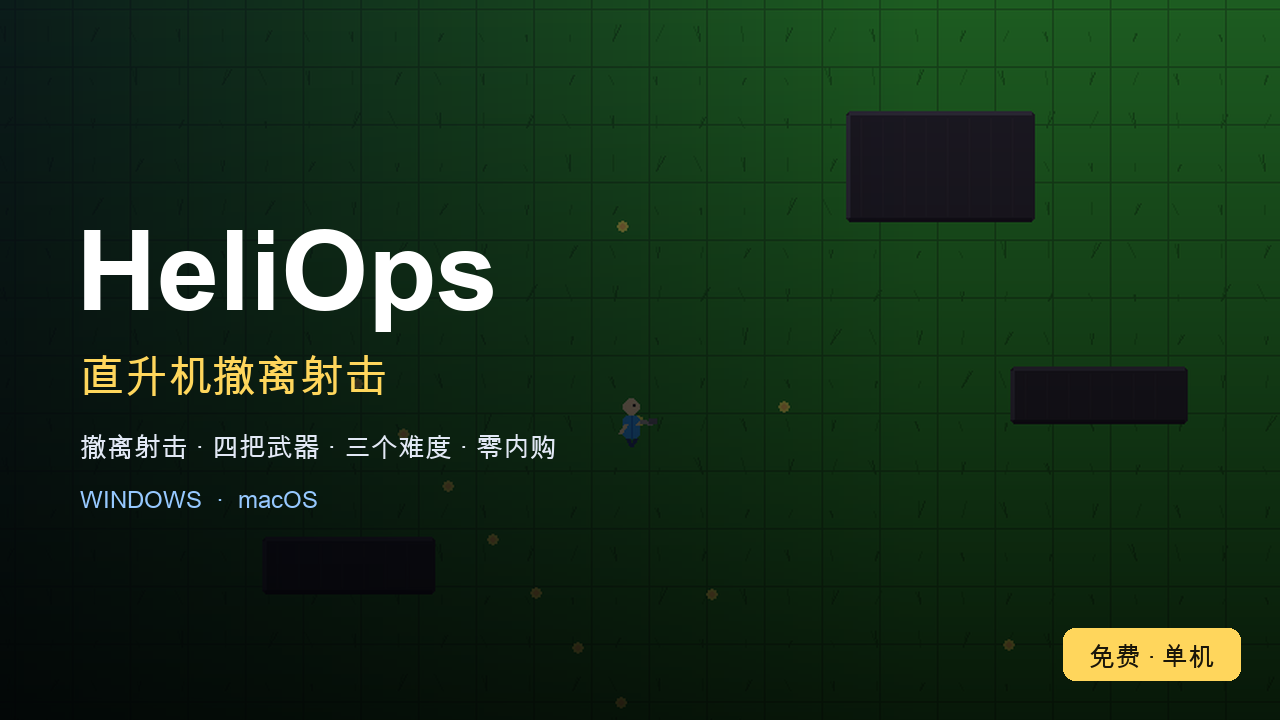
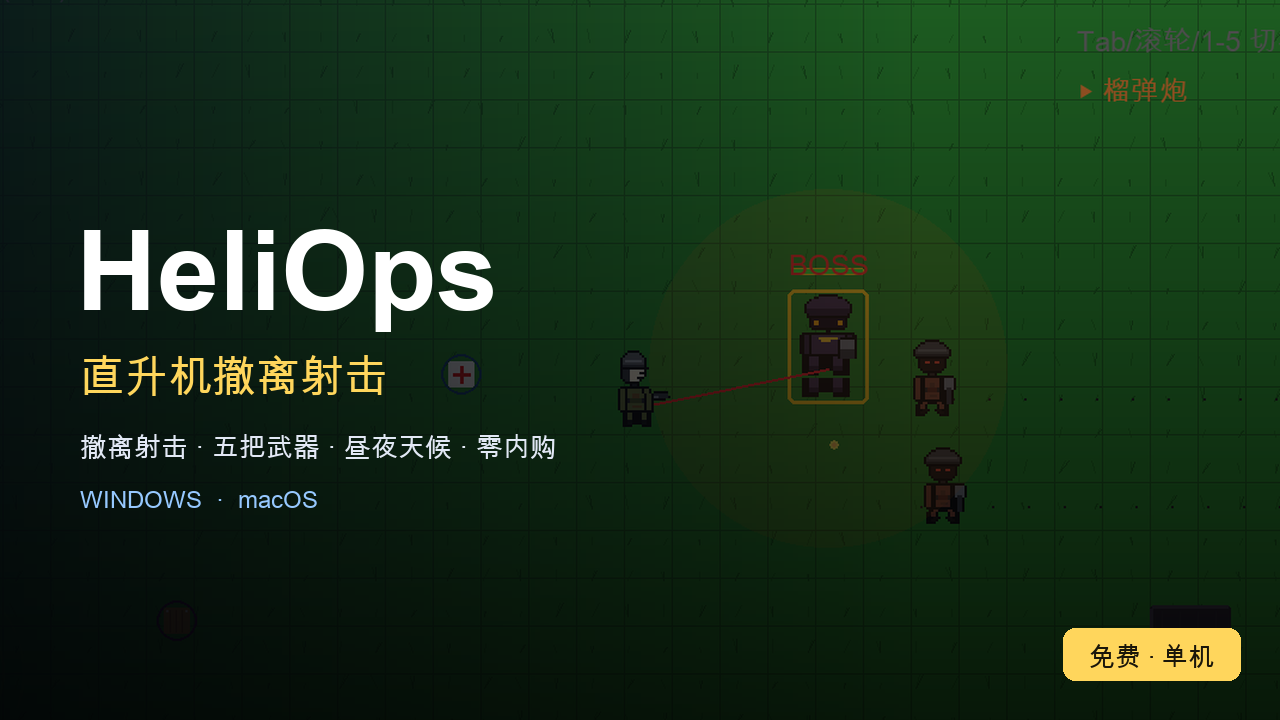
docs: add README with v1.3.3 screenshots

diff --git a/README.md b/README.md
@@ -1,0 +1,118 @@
+# HeliOps
+
+> 单机俯视角「搜打撤」撤离射击 —— 搜刮物资、躲开巡逻兵与 Boss、在夜里靠一支手电突围，走到黄色撤离点，等直升机降落把你接走。
+>
+> Windows / macOS · 免费 · 无内购 · 中文
+
+![夜间作战](screenshots/v1.3.3_夜晚手电锥形.png)
+
+---
+
+## 下载
+
+| 平台 | 版本 | 下载 |
+| --- | --- | --- |
+| Windows | 10 / 11 64 位 | [HeliOps_Windows_Chinese_v1.3.3.zip](https://github.com/sunnychen786/HeliOps/releases/download/v1.3.3/HeliOps_Windows_Chinese_v1.3.3.zip) |
+| macOS | 12+（Intel / Apple 芯片） | [HeliOps_Mac_Chinese_v1.3.3.zip](https://github.com/sunnychen786/HeliOps/releases/download/v1.3.3/HeliOps_Mac_Chinese_v1.3.3.zip) |
+
+解压即玩：Windows 双击 `HeliOps.exe`，macOS 双击 `HeliOps.app`（首次需要在「系统设置 → 隐私与安全性」里放行）。
+
+全部历史版本见 [Releases](https://github.com/sunnychen786/HeliOps/releases)。也收录在 [itch.io](https://sunnychen786.itch.io/heliops)。
+
+![Boss 追杀](screenshots/v1.3.3_Boss追杀.png)
+
+---
+
+## v1.3 带来了什么
+
+**生涯战绩** —— 主菜单按 `T`，累计击杀、撤离次数、撤离成功率、历史最高分一目了然，难度解锁状态也在同一屏。
+
+![生涯战绩](screenshots/v1.3.3_生涯战绩.png)
+
+**榴弹炮** —— 第 5 把武器，4000 分解锁。一发 5 点伤害，但弹匣只有 4 发，打空就得停下来换弹，换弹期间完全无法射击。
+
+![榴弹炮](screenshots/v1.3.3_白天战斗_榴弹炮.png)
+
+**夜间作战** —— 入夜之后战场伸手不见五指，只剩一支跟着你朝向走的 90° 手电光锥。灯下看得清，光外一片漆黑。
+
+![夜间作战](screenshots/v1.3.3_夜晚手电锥形.png)
+
+**撤离镜头** —— 撤离不再是一句提示文字，而是一段真的镜头：直升机从天上降下来，把你连同战利品一起带走。
+
+---
+
+## 玩法
+
+你是地面士兵，直升机只负责撤离接应，敌人和 Boss 都不是直升机。
+
+- 在战区搜索补给箱，捡到武器与护甲
+- 巡逻兵、猎手与 Boss 会主动开火，Boss 会一路追杀你
+- 走到黄色撤离点**停留 3 秒**，直升机降落接应
+- 只有活着带出去的战利品才换算成分数；被击倒这一趟就白跑了
+- 分数可以在补给站买更强的装备，越难难度奖励越高
+
+| 按键 | 作用 |
+| --- | --- |
+| `WASD` / 方向键 | 移动角色 |
+| `空格` | 射击（自动瞄准最近的敌人） |
+| `J` | 搜索物资（靠近后按住约 1.5 秒） |
+| `1`–`5` / `Tab` / 滚轮 | 切换武器（手枪 / 步枪 / 霰弹枪 / 狙击枪 / 榴弹炮） |
+| `R` | 换弹（每把枪独立弹匣，换弹期间无法射击） |
+| `P` 或 `ESC` | 暂停 |
+| 主菜单 `T` / `S` / `8` / `D` | 生涯战绩 / 设置 / 补给站 / 切换难度 |
+
+---
+
+## 从源码运行
+
+游戏是一个单文件的 Pygame 程序，没有外部素材依赖。
+
+```bash
+pip install pygame
+python game.py
+```
+
+进度自动保存在 `~/Documents/HeliOps/`（Windows 为 `%USERPROFILE%\Documents\HeliOps\`）。
+
+## 打包
+
+```bash
+pip install pyinstaller
+
+# macOS：产出 dist/HeliOps.app
+python build.py
+python tools/package_mac.py        # 用 ditto 打 zip（不能用 zipfile，会跟随符号链接）
+
+# Windows：在 GitHub Actions 上构建，产出单文件 exe
+# 产物下载后：
+python tools/package_windows.py path/to/HeliOps.exe
+```
+
+出包后必须验一遍内嵌代码确实是当前版本：
+
+```bash
+python tools/verify_archive.py dist/HeliOps.app/Contents/MacOS/HeliOps
+```
+
+## 无头测试
+
+仓库里带了一套无头行为测试（不需要显示器，也不碰你的存档）：
+
+```bash
+python tools/test_reload.py          # 换弹逻辑
+python tools/test_extract_ammo.py     # 撤离与弹药
+python tools/test_extract_lift.py     # 撤离直升机镜头
+python tools/test_font_cjk.py         # 字体能否渲染中文（Windows 出包前必跑）
+```
+
+## 技术
+
+- Python 3.13 + Pygame 2.6，**零外部素材**：角色、掩体、战利品布局与全部音效都是程序生成的
+- 单文件 `game.py`（约 4300 行），双击即玩
+- macOS 包是 Intel 原生构建，Apple 芯片通过 Rosetta 运行
+
+## 许可
+
+源码开放用于学习与二次创作。游戏本体免费、无内购。
+
+问题反馈：<https://sunnychen786.itch.io/heliops>
